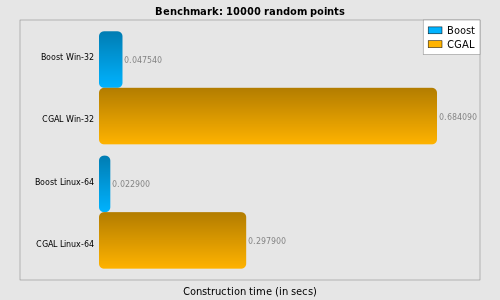
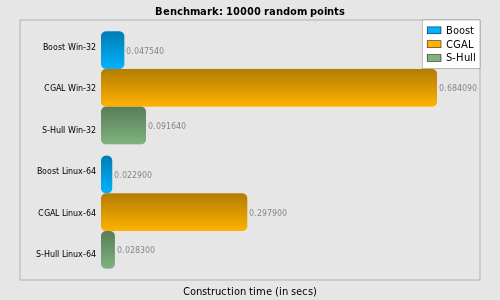
Adding S-Hull benchmark to the documentation.

Changed region(s): [[0.06, 0.06, 0.96, 0.9]]

diff --git a/sandbox/gtl/doc/voronoi_benchmark.htm b/sandbox/gtl/doc/voronoi_benchmark.htm
@@ -1,19 +1,18 @@
 <!DOCTYPE HTML PUBLIC "-//W3C//DTD HTML 4.01 Transitional//EN">
 <html><head>
+
+
+
   
   <meta http-equiv="Content-Language" content="en-us">
 
   
-  <meta http-equiv="Content-Type" content="text/html; charset=windows-1252">
-  <title>Voronoi Benchmark</title>
-
-  
-</head><body>
+  <meta http-equiv="Content-Type" content="text/html; charset=windows-1252"><title>Voronoi Benchmark</title></head><body>
 <table style="margin: 0pt; padding: 0pt; width: 100%;" border="0" cellpadding="0" cellspacing="0">
 
   <tbody>
     <tr>
-      <td style="background-color: rgb(238, 238, 238);" nowrap="1" valign="top">
+      <td style="background-color: rgb(238, 238, 238);" valign="top" nowrap="1">
       <div style="padding: 5px;" align="center"> <img src="images/boost.png" border="0" height="86" width="277"><a title="www.boost.org home page" tabindex="2" style="border: medium none ;" href="http://www.boost.org/"> </a></div>
       <div style="margin: 5px;">
       <h3 class="navbar">Contents</h3>
@@ -88,21 +87,27 @@ output topology;<br>
         </li>
         <li>compute output geometries within precision of the output
 coordinate type.</li>
+      </ul>Libraries included in the benchmark:<br>
+      <ul>
+        <li>Boost.Polygon Voronoi - satisfies all three items above.<br>
+        </li>
+        <li>CGAL - satisifes the first two items. CGAL is a well-known
+library in the computational geometry area, especially for its
+robustness.</li>
+        <li>S-Hull
+- doesn't satisfy any of the above items. S-Hull is a non-robust
+implementation of sweep-hull algorithm that constructs Delaunay
+triangulation of a set of points.<br>
+        </li>
       </ul>
-Apart from Boost.Polygon Voronoi we managed to find just one library
-that meets at least two of those requirements: <a href="http://www.cgal.org/">CGAL</a>
-(it is clearly defined in CGAL documentation that it's capable to
-handle the first two items, however there are no warranties on the
-output geometries precision). Taking into account that CGAL is
-well-known in the
-computational geometry area it should be clear why it is the main
-target of this benchmark comparison. Other libraries (<a href="https://github.com/aewallin/openvoronoi">OpenVoronoi</a>, <a href="http://qhull.org/">QHull</a>, <a href="http://www.cs.cmu.edu/%7Equake/triangle.html">Triangle</a>),
-that at least
-partially satisfy above requirements would be added to this benchmark
+There are only two robust imlementations in our benchmark:
+Boost.Polygon Voronoi and CGAL. Thus we are considering comparison of
+those two to be of the most interest. <br>
+      <br>
+Other libraries (<a href="https://github.com/aewallin/openvoronoi">OpenVoronoi</a>, <a href="http://www.cs.cmu.edu/%7Equake/triangle.html">Triangle</a>) would be added to this benchmark
 incrementally (we are open for suggestions).<br>
       <h2>Important<br>
-      </h2>
-While results of this benchmark show complete dominance of
+      </h2>While results of this benchmark show complete dominance of
 the Boost.Polygon Voronoi over the CGAL Delaunay Graph implementation,
 we would like to make it clear
 that both libraries use different approach to construct Voronoi
@@ -140,10 +145,12 @@ segment
 as 3 input objects (segment itself and its endpoints), thus the running
 time and memory usage for Voronoi of segments would be approximately at
 least 3 times
-slower than for Voronoi of points;<br>
+slower than for Voronoi of points;</li>
+        <li>The S-Hull implementation doesn't process duplicate points properly, thus those are eliminated before the algorithm execution.<br>
         </li>
+
       </ul>
-      <br>
+      
 The benchmark was executed on the following two system configurations:<br>
       <br>
 Hardware: Intel i5-7600 2.8 GHz, 4GiB RAM.<br>
@@ -161,7 +168,7 @@ patch.<br>
           <tr>
             <td colspan="2" rowspan="1" style="vertical-align: top; text-align: center;">Test specification<br>
             </td>
-            <td colspan="4" rowspan="1" style="vertical-align: top; text-align: center;">Average construction
+            <td colspan="6" rowspan="1" style="vertical-align: top; text-align: center;">Average construction
 time (in secs)<br>
             </td>
           </tr>
@@ -178,12 +185,16 @@ Win-32<br>
             <td style="vertical-align: top; text-align: center;">CGAL
 Win-32<br>
             </td>
-            <td style="vertical-align: top; text-align: center;">Boost
+            <td style="vertical-align: top; text-align: center;">S-Hull Win-32<br>
+            </td>
+<td style="vertical-align: top; text-align: center;">Boost
 Linux-64<br>
             </td>
             <td style="vertical-align: top; text-align: center;">CGAL
 Linux-64<br>
+            </td><td style="vertical-align: top; text-align: center;">S-Hull Linux-64<br>
             </td>
+
           </tr>
           <tr>
             <td style="vertical-align: top; text-align: right;">10<br>
@@ -194,10 +205,14 @@ Linux-64<br>
             </td>
             <td style="vertical-align: top; text-align: right;">0.000116<br>
             </td>
-            <td style="vertical-align: top; text-align: right;">0.000013<br>
+            <td style="vertical-align: top; text-align: right;">0.000043<br>
+            </td>
+<td style="vertical-align: top; text-align: right;">0.000013<br>
             </td>
             <td style="vertical-align: top; text-align: right;">0.000052<br>
+            </td><td style="vertical-align: top; text-align: right;">0.000012<br>
             </td>
+
           </tr>
           <tr>
             <td style="vertical-align: top; text-align: right;">100<br>
@@ -208,10 +223,14 @@ Linux-64<br>
             </td>
             <td style="vertical-align: top; text-align: right;">0.002649<br>
             </td>
-            <td style="vertical-align: top; text-align: right;">0.000192<br>
+            <td style="vertical-align: top; text-align: right;">0.000521<br>
+            </td>
+<td style="vertical-align: top; text-align: right;">0.000192<br>
             </td>
             <td style="vertical-align: top; text-align: right;">&nbsp;0.001150<br>
+            </td><td style="vertical-align: top; text-align: right;">0.000139<br>
             </td>
+
           </tr>
           <tr>
             <td style="vertical-align: top; text-align: right;">1000<br>
@@ -222,10 +241,14 @@ Linux-64<br>
             </td>
             <td style="vertical-align: top; text-align: right;">0.039140<br>
             </td>
-            <td style="vertical-align: top; text-align: right;">0.002130<br>
+            <td style="vertical-align: top; text-align: right;">0.007125<br>
+            </td>
+<td style="vertical-align: top; text-align: right;">0.002130<br>
             </td>
             <td style="vertical-align: top; text-align: right;">0.016680<br>
+            </td><td style="vertical-align: top; text-align: right;">0.002010<br>
             </td>
+
           </tr>
           <tr>
             <td style="vertical-align: top; text-align: right;">10000<br>
@@ -236,10 +259,14 @@ Linux-64<br>
             </td>
             <td style="vertical-align: top; text-align: right;">0.684090<br>
             </td>
-            <td style="vertical-align: top; text-align: right;">0.022900<br>
+            <td style="vertical-align: top; text-align: right;">0.091640<br>
+            </td>
+<td style="vertical-align: top; text-align: right;">0.022900<br>
             </td>
             <td style="vertical-align: top; text-align: right;">0.297900<br>
+            </td><td style="vertical-align: top; text-align: right;">0.028300<br>
             </td>
+
           </tr>
           <tr>
             <td style="vertical-align: top; text-align: right;">100000<br>
@@ -250,10 +277,14 @@ Linux-64<br>
             </td>
             <td style="vertical-align: top; text-align: right;">&nbsp;16.904600<br>
             </td>
-            <td style="vertical-align: top; text-align: right;">0.274000<br>
+            <td style="vertical-align: top; text-align: right;">1.218000<br>
+            </td>
+<td style="vertical-align: top; text-align: right;">0.274000<br>
             </td>
             <td style="vertical-align: top; text-align: right;">8.047000<br>
+            </td><td style="vertical-align: top; text-align: right;">0.432000<br>
             </td>
+
           </tr>
           <tr>
             <td style="vertical-align: top; text-align: right;">1000000<br>
@@ -264,10 +295,14 @@ Linux-64<br>
             </td>
             <td style="vertical-align: top; text-align: right;">566.056000<br>
             </td>
-            <td style="vertical-align: top; text-align: right;">3.290000<br>
+            <td style="vertical-align: top; text-align: right;">15.394000<br>
+            </td>
+<td style="vertical-align: top; text-align: right;">3.290000<br>
             </td>
             <td style="vertical-align: top; text-align: right;">315.740000<br>
+            </td><td style="vertical-align: top; text-align: right;">6.350000<br>
             </td>
+
           </tr>
         </tbody>
       </table>
@@ -439,6 +474,11 @@ The main conclusions for the benchmark results above are following:<br>
         <li>There is no input size range were CGAL would outperform
 Boost.Polygon Voronoi. Even considering the fact that we didn't include
 time it would take CGAL to compute coordinates of the Voronoi vertices.</li>
+        <li>The more interesting fact is that robust implementation of
+the Boost.Polygon Voronoi is faster than non-robust of
+S-Hull (except small input sets of around 100 points on Linux-64).<br>
+        </li>
+
         <li>Logarithmic execution time shows that Boost.Polygon Voronoi
 has clear N*log(N) complexity, while this doesn't seem to be true for
 CGAL (at least for large input data sets).<br>
@@ -461,7 +501,7 @@ for those quantities.</li>
       </td>
     </tr>
     <tr>
-      <td style="background-color: rgb(238, 238, 238);" nowrap="1" valign="top">&nbsp;</td>
+      <td style="background-color: rgb(238, 238, 238);" valign="top" nowrap="1">&nbsp;</td>
       <td style="padding-left: 10px; padding-right: 10px; padding-bottom: 10px;" valign="top" width="100%">
       <table class="docinfo" id="table2" frame="void" rules="none">
         <colgroup> <col class="docinfo-name"><col class="docinfo-content"> </colgroup> <tbody valign="top">

diff --git a/sandbox/gtl/doc/voronoi_builder.htm b/sandbox/gtl/doc/voronoi_builder.htm
@@ -4,6 +4,7 @@
 
 
 
+
   
   <meta http-equiv="Content-Language" content="en-us">
 
@@ -88,8 +89,8 @@ exactly). Each event is reported to the output data structure builder.
 The structure shares Voronoi name as the events generated by it
 correspond to the Voronoi diagram edges and vertices, thus giving
 enough information to construct the Voronoi diagram of a set of points
-and&nbsp; linear segments. The requirements for the input/output
-coordinate types of
+and linear segments. The requirements for the input/output
+coordinate type of
 the builder geometries are not the same as for the rest of the
 Boost.Polygon library. The main differences are in the following:<br>
       <ul>
@@ -105,7 +106,7 @@ We encourage users to use default static methods defined in the <a href="../boos
 header to construct Voronoi diagram, however it's always possible to
 use Voronoi builder explicitly, especially if the user wants to drop
 the external dependencies such as MPL (metaprogramming library). So the
-following include set woudn't depend on any external headers even
+following include set woudn't depend on any heavy external headers (except STL and boost/cstdint.hpp), even
 Boost.Polygon itself:<br>
 
       <br>
@@ -116,7 +117,9 @@ Boost.Polygon itself:<br>
 
       <span style="font-family: Courier New,Courier,monospace;">#include &lt;voronoi_utils.hpp&gt;<br>
       <br>
-      </span>This also allows to build Voronoi construction APIs on top of the Voronoi builder data strcture.<br>
+      </span>This
+also gives a way to build Voronoi construction API on top of the
+Voronoi builder data strcture for the other Boost libraries.<br>
       <h2>Declaration<br>
       </h2>
 
@@ -137,10 +140,10 @@ voronoi_builder;</span><br>
 segments).<br>
 
       <font face="Courier New"> <span style="font-family: 'Courier New',Courier,monospace;">CTT</span></font>
-- defines input/output coordinate types used by VP.<br>
+- defines input/output coordinate type used by VP.<br>
 
       <font face="Courier New"> <span style="font-family: 'Courier New',Courier,monospace;">VP</span></font>
-- predicate kernel, that provides builder with the robust and
+- predicate kernel, that provides builder with robust and
 efficient predicates and functors.<br>
 
 The Voronoi builder data structure is ready to use from the box with
@@ -148,8 +151,8 @@ The Voronoi builder data structure is ready to use from the box with
 input coordinate range to the other integer types (e.g. 64-bit
 integer), however this will also require manual set up of the
 coordinate type traits. Default voronoi_predicates&lt;<font face="Courier New"><span style="font-family: 'Courier New',Courier,monospace;">CTT</span></font>&gt;
-structure provides correct predicates as soon as types defined by <font face="Courier New"> <span style="font-family: 'Courier New',Courier,monospace;">CTT</span></font>
-satisfy the requirements explained in the end of this page. In case those
+structure provides correct and efficient predicates as soon as types defined by <font face="Courier New"> <span style="font-family: 'Courier New',Courier,monospace;">CTT</span></font>
+satisfy the requirements explained at the end of this page. In case those
 requirements are not satisfied for the user provided <font face="Courier New"> <span style="font-family: 'Courier New',Courier,monospace;">CTT</span></font>,
 proper <font face="Courier New"> <span style="font-family: 'Courier New',Courier,monospace;">VP</span></font>
 implementation is required.<span style="font-family: Courier New,Courier,monospace;"></span><br>
@@ -341,10 +344,9 @@ with
 2048-bit (64 * 32) integers as they will overflow its exponent. On the
 gcc compiler it's possible to use 80-bit long doubles for both fpt
 types, however this is not supported by MSVC compiler.</li>
-        <li>efpt_type and to_efpt_converter_type are not used to construct the
-Voronoi diagram of points (mocks will work fine).</li>
+        <li>efpt_type and to_efpt_converter_type are not used to construct Voronoi diagram of points (mocks will work fine).</li>
         <li>
-For an example of the user defined builder coordinate type traits
+For an example of the user defined coordinate type traits
 see <a href="voronoi_advanced_tutorial.htm">advanced Voronoi tutorial</a>.</li>
       </ul>
 
